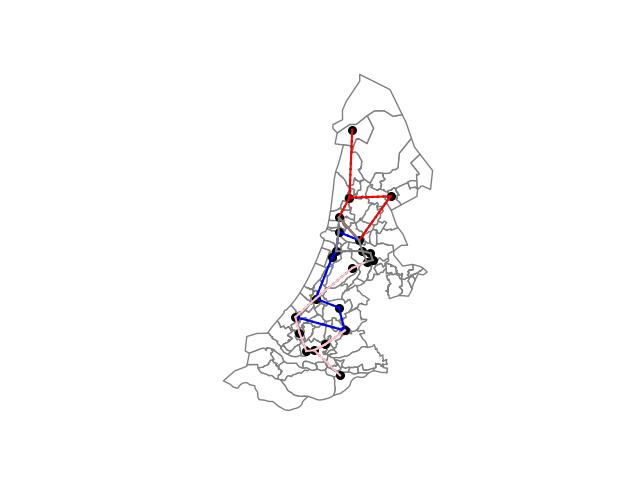
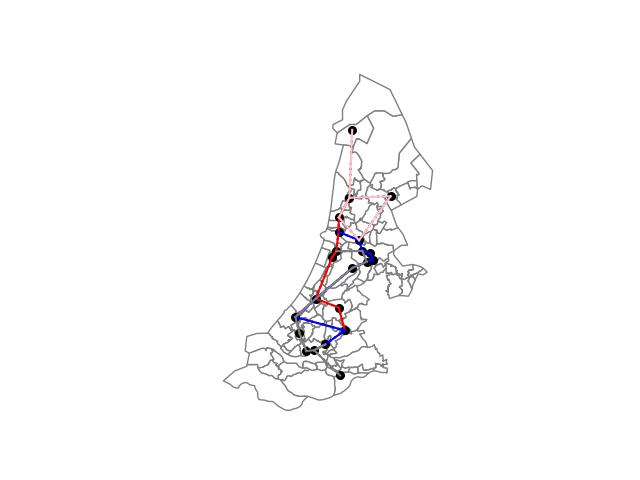
Grafiek is nu werkende

Changed region(s): [[0.4688, 0.2812, 0.625, 0.6562], [0.4688, 0.6562, 0.5625, 0.7812], [0.4375, 0.6562, 0.4688, 0.6875]]

diff --git a/spoorschavuiten/code/visualization/visualize.py b/spoorschavuiten/code/visualization/visualize.py
@@ -220,7 +220,7 @@ def outputToFile(schedule: Schedule, title: str):
     writeInFile("\n")
 
 
-def makeScatterGraph(x: list, y: list, xpoints: list, ypoints:list ):
+def makeHillClimberGraph(x: list, y: list, xpoints: list, ypoints:list ):
     plt.scatter(x, y, c= "black", s=30)
     
     plt.plot(xpoints, ypoints)
@@ -228,5 +228,4 @@ def makeScatterGraph(x: list, y: list, xpoints: list, ypoints:list ):
     plt.title("Hill Climber Algortime")
     plt.xlabel("Iteraties")
     plt.ylabel("Score")
-    # plt.scatter(xo, yo, c= "black", s=30)
     plt.show()

diff --git a/spoorschavuiten/main_visualisation.py b/spoorschavuiten/main_visualisation.py
@@ -42,7 +42,7 @@ outputToFile(hillClimber._newSchedule, "Generated output of a hillclimber algori
 # print(hillClimber.scores)
 # print(hillClimber.iterations)
 
-makeScatterGraph(hillClimber.iterations_list, hillClimber.scores)
+makeHillClimberGraph(hillClimber.iterations_listPoints, hillClimber.scoresPoints, hillClimber.iterations_list, hillClimber.scores)
 
 # schedule2.generate_output()
 
